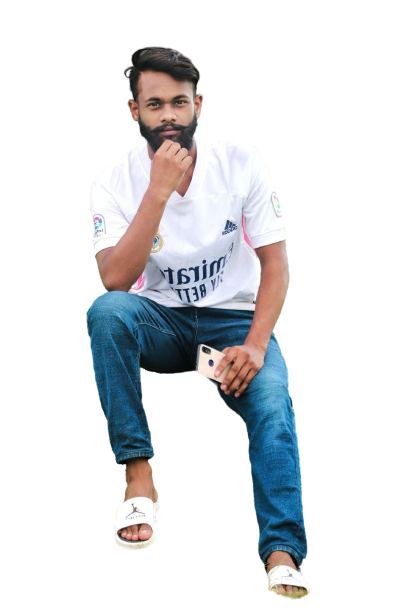
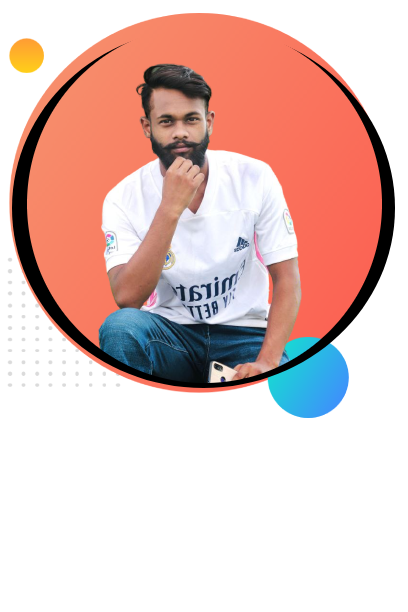
section1

diff --git a/project/index.html b/project/index.html
@@ -1,17 +1,36 @@
 <!DOCTYPE html>
 <html lang="en">
+
 <head>
     <meta charset="UTF-8">
     <meta http-equiv="X-UA-Compatible" content="IE=edge">
     <meta name="viewport" content="width=device-width, initial-scale=1.0">
     <title> code push kor </title>
     <link rel="preconnect" href="https://fonts.googleapis.com">
-<link rel="preconnect" href="https://fonts.gstatic.com" crossorigin>
-<link href="https://fonts.googleapis.com/css2?family=Poppins&display=swap" rel="stylesheet">
+    <link rel="preconnect" href="https://fonts.gstatic.com" crossorigin>
+    <link href="https://fonts.googleapis.com/css2?family=Poppins&display=swap" rel="stylesheet">
 
     <link rel="stylesheet" href="style.css">
+
 <body>
-    <h1> Welcome to </h1>
-    <h1> <small id="colour"> Bari Fahim</small> world!</h1>
+    <section>
+
+        <div class="half-width">
+            <h1> Welcome to </h1>
+            <h1> <span id="colour"> Bari Fahim</span> world!</h1>
+            <h3> want to beacame a web developer </h3>
+            <p> Develop amazing web and app experiences with tips and advice from the experts at Web.Dev.
+                Explore our structured learning paths to discover everything you need to know about building for the
+                modern
+                web.
+            </p>
+            <a class="button-link" target="_blank" href="https://www.programming-hero.com/"> Hire Me</a>
+        </div>
+        <div class="half-width">
+            <img src="images/photo_2022-07-05_10-18-07-removebg-preview.png" alt=" that's my fucking picture">
+        </div>
+
+    </section>
 </body>
+
 </html>

diff --git a/project/style.css b/project/style.css
@@ -1,9 +1,34 @@
-body{
+body {
     font-family: 'Poppins', sans-serif;
 }
-h1{
+
+h1 {
     font-size: 50px;
 }
-#colour{
-    color:orange;
+
+#colour {
+    color: orange;
+}
+
+section {
+    display: flex;
+}
+
+.half-width {
+    width: 50%;
+    padding-left: 5%;
+
+}
+
+.half-width img {
+    padding-left: 5%;
+}
+
+.button-link {
+    text-decoration: none;
+    background-color: tomato;
+    padding: 10px 40px;
+    color: white;
+    font-weight: 700;
+    border-radius: 5px;
 }
